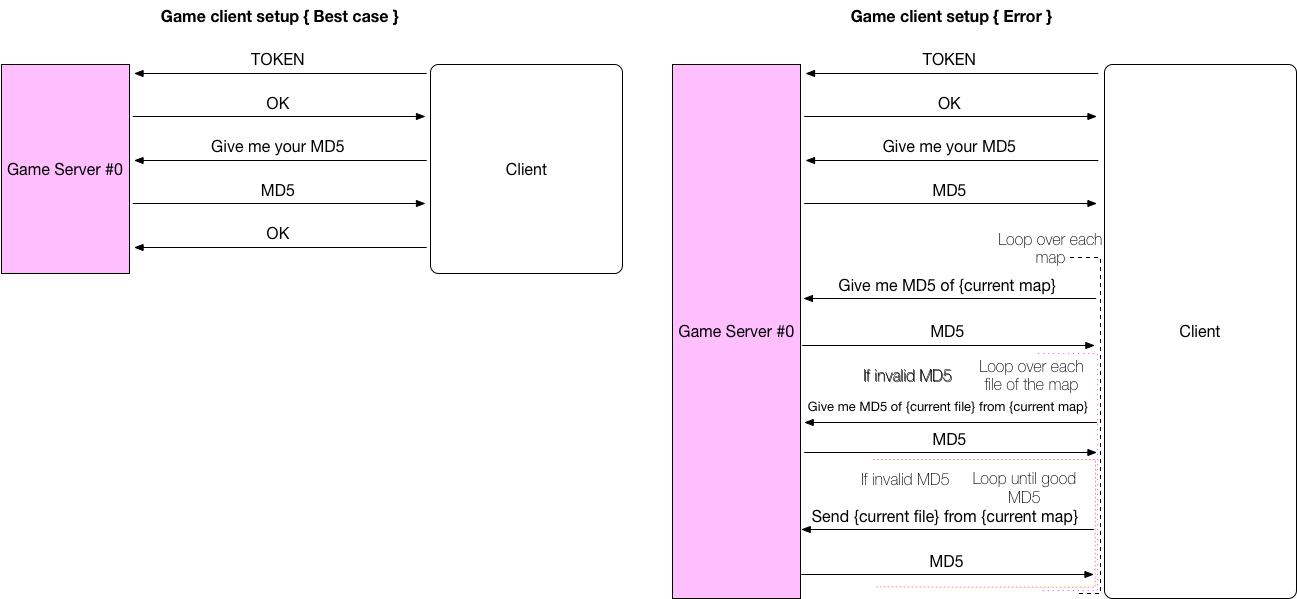
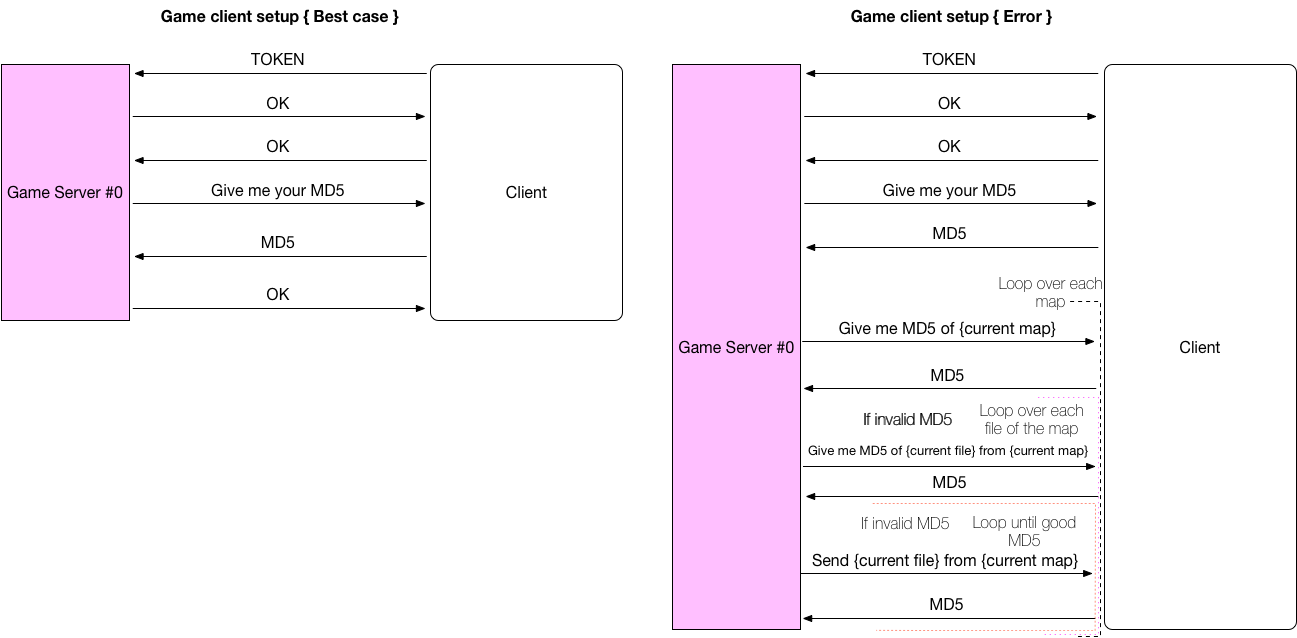
Updated schemas + now gettings all needed MD5

diff --git a/projects/server/game_server/src/Config.cpp b/projects/server/game_server/src/Config.cpp
@@ -13,46 +13,46 @@ Config &Config::getInstance()
   return (instance);
 }
 
-void Config::checkMD5(std::string const &filePath, std::map<std::string, std::string> &md5)
+void Config::checkMD5(std::string const &filePath,
+                      std::map<std::string, std::string> &md5)
 {
-  /*crypto::Hash<crypto::AHash::MD5> crypt;
-  bool = crypt.compute(reinterpret_cast<std::uint8_t const *>(c_str), lenBuff);
-  std::string md5String = crypt.getHash();*/
   crypto::Hash<crypto::AHash::MD5> crypt;
-  std::string basePath = filePath;
-  DIR *dir;
-  struct dirent *ent;
+  std::string                      basePath = filePath;
+  DIR *                            dir;
+  struct dirent *                  ent;
 
   dir = opendir(filePath.c_str());
   if (!dir)
-  {
-    //TODO do correct one
-    throw std::exception();
-  }
-  while ((ent = readdir(dir)))
-  {
-    std::ifstream fileReader;
-    std::stringstream buffer;
-    std::string finalBuff;
-    std::string md5Hash;
-
-    if (ent->d_name[0] == '.')
-      continue;
-    std::string fileName = filePath + ent->d_name;
-    fileReader.open(fileName.c_str());
-    if (!fileReader.good())
     {
-      std::cout << "!" << fileName << "!" << std::endl;
+      // TODO do correct one
       throw std::exception();
     }
-    buffer << fileReader.rdbuf();
-    finalBuff = buffer.str();
-    crypt.compute(reinterpret_cast<std::uint8_t const *>(finalBuff.c_str()), finalBuff.length());
-    md5Hash = crypt.getHash();
-    nope::log::Log(Debug) << "File: " << ent->d_name << ", MD5: " << md5Hash;
-    fileReader.close();
-    md5[ent->d_name] = md5Hash;
-  }
+
+  // Loop over each file
+  while ((ent = readdir(dir)))
+    {
+      std::ifstream     fileReader;
+      std::stringstream buffer;
+      std::string       finalBuff;
+      std::string       md5Hash;
+
+      if (ent->d_name[0] == '.')
+	continue;
+      std::string fileName = filePath + ent->d_name;
+      fileReader.open(fileName.c_str());
+      if (!fileReader.good())
+	{
+	  throw std::exception();
+	}
+      buffer << fileReader.rdbuf();
+      finalBuff = buffer.str();
+      crypt.compute(reinterpret_cast<std::uint8_t const *>(finalBuff.c_str()),
+                    finalBuff.length());
+      md5Hash = crypt.getHash();
+      nope::log::Log(Debug) << "File: " << ent->d_name << ", MD5: " << md5Hash;
+      fileReader.close();
+      md5[ent->d_name] = md5Hash;
+    }
   closedir(dir);
 }
 
@@ -62,6 +62,7 @@ void Config::loadConfig(std::string const &file)
   m_config.loadFrom(file);
 
   // Load network configuration
+  nope::log::Log(Info) << "Loading network configuration";
   m_connectManagerIp = m_config["Network"]["connectManagerIp"];
   m_connectManagerPort = static_cast<std::uint16_t>(
       std::stoi(m_config["Network"]["connectManagerPort"]));
@@ -70,23 +71,45 @@ void Config::loadConfig(std::string const &file)
   m_gameServerMaxClients = static_cast<std::uint16_t>(
       std::stoi(m_config["Network"]["maxNumberClients"]));
 
-  // TODO change condition !
-  for (std::vector<ini::Section>::const_iterator it = m_config.cbegin(); it != m_config.cend(); ++it)
+  // Load game server configuration
+  nope::log::Log(Info) << "Loading game configuration";
+  for (std::vector<ini::Section>::const_iterator it = m_config.cbegin();
+       it != m_config.cend(); ++it)
     {
       if (it->name().compare(0, mapCatDefault.length(), mapCatDefault) == 0)
-      {
-        MapConfig   tmp;
-        tmp.name = (*it)["name"];
-        std::cout << "NAME: " << tmp.name << std::endl;
-        tmp.directory = (*it)["directory"];
-        checkMD5(tmp.directory, tmp.md5);
-        tmp.gameMode = (*it)["gameMode"];
-        tmp.nbLaps = std::stoi((*it)["laps"]);
-        nope::log::Log(Debug) << nope::serialization::to_json(tmp);
-        m_mapConfig.push_back(std::move(tmp));
-      }
+	{
+	  MapConfig tmp;
+	  tmp.name = (*it)["name"];
+	  tmp.directory = (*it)["directory"];
+	  checkMD5(tmp.directory, tmp.md5);
+	  std::string                      payload;
+	  crypto::Hash<crypto::AHash::MD5> crypt;
+	  for (std::pair<std::string const, std::string> cur : tmp.md5)
+	    {
+	      payload += cur.second;
+	    }
+	  crypt.compute(
+	      reinterpret_cast<std::uint8_t const *>(payload.c_str()),
+	      payload.length());
+	  tmp.md5Str = crypt.getHash();
+	  tmp.gameMode = (*it)["gameMode"];
+	  tmp.nbLaps = std::stoi((*it)["laps"]);
+	  nope::log::Log(Debug) << nope::serialization::to_json(tmp);
+	  m_mapConfig.push_back(std::move(tmp));
+	}
     }
-  // Load game server configuration
+
+  // Get general MD5
+  crypto::Hash<crypto::AHash::MD5> crypt;
+  std::string                      payload;
+  for (MapConfig const &map : m_mapConfig)
+    {
+      payload += map.md5Str;
+    }
+  crypt.compute(reinterpret_cast<std::uint8_t const *>(payload.c_str()),
+                payload.length());
+  m_mapMD5 = crypt.getHash();
+  nope::log::Log(Debug) << "Generated global MD5 : " << m_mapMD5;
 }
 
 // Getters
@@ -108,4 +131,14 @@ std::uint16_t Config::getGameServerPort() const
 std::int32_t Config::getGameServerMaxClients() const
 {
   return (m_gameServerMaxClients);
+}
+
+std::vector<MapConfig> const &Config::getMapConfig() const
+{
+  return (m_mapConfig);
+}
+
+std::string const &Config::getMapMD5() const
+{
+  return (m_mapMD5);
 }

diff --git a/projects/server/game_server/src/GameClient.cpp b/projects/server/game_server/src/GameClient.cpp
@@ -175,6 +175,25 @@ network::IClient::ClientAction GameClient::treatIncomingData()
     case State::AUTHENTICATING:
       break;
     case State::AUTHENTICATED:
+      nope::log::Log(Debug) << "Reading in state AUTHENTICATED [GameClient]";
+      ret = read(m_packet);
+      if (ret == network::IClient::ClientAction::SUCCESS)
+	{
+	  m_packet >> rep;
+	  // The only event allowed is a VALIDATION event
+	  if (rep.pck.eventType == GameClientToGSEvent::VALIDATION_EVENT)
+	    {
+	      nope::log::Log(Debug)
+	          << "Got Validation: " << rep.pck.eventData.valid
+	          << " [GameClient]";
+	      if (rep.pck.eventData.valid == 1)
+		{
+		  nope::log::Log(Debug)
+		      << "Switching to CHECKING_MAPS state [GameClient]";
+		  m_state = State::CHECKING_MAPS;
+		}
+	    }
+	}
       break;
     case State::CHECKING_MAPS:
       break;
@@ -211,6 +230,10 @@ network::IClient::ClientAction GameClient::treatOutgoingData()
     case State::AUTHENTICATED:
       break;
     case State::CHECKING_MAPS:
+      if (checkMaps())
+	{
+	  ret = network::IClient::ClientAction::SUCCESS;
+	}
       break;
     case State::WAITING:
       break;
@@ -229,6 +252,27 @@ bool GameClient::operator==(GameClient const &other) const
   if (this != &other)
     {
       return (m_sock == other.m_sock);
+    }
+  return (true);
+}
+
+bool GameClient::checkMaps()
+{
+  // Check global MD5
+  nope::log::Log(Info) << "Checking integrity of client's maps";
+
+  nope::log::Log(Debug) << "Global MD5: " << Config::getInstance().getMapMD5();
+
+  std::vector<MapConfig> const &maps = Config::getInstance().getMapConfig();
+
+  // Check MD5 for each map
+  for (MapConfig const &map : maps)
+    {
+      nope::log::Log(Debug) << map.name << ": " << map.md5Str;
+      for (std::pair<std::string const, std::string> file : map.md5)
+	{
+	  nope::log::Log(Debug) << file.first << ": " << file.second;
+	}
     }
   return (true);
 }

diff --git a/projects/server/game_server/include/Config.hpp b/projects/server/game_server/include/Config.hpp
@@ -18,15 +18,18 @@ public:
   void operator=(Config const &) = delete;
 
   // Network
-  std::string const &getConnectManagerIp() const;
-  std::uint16_t      getConnectManagerPort() const;
-  std::uint16_t      getGameServerPort() const;
-  std::int32_t       getGameServerMaxClients() const;
+  std::string const &           getConnectManagerIp() const;
+  std::uint16_t                 getConnectManagerPort() const;
+  std::uint16_t                 getGameServerPort() const;
+  std::int32_t                  getGameServerMaxClients() const;
+  std::vector<MapConfig> const &getMapConfig() const;
+  std::string const &           getMapMD5() const;
 
 private:
   Config();
   void loadConfig(std::string const &file);
-  void checkMD5(std::string const &filePath, std::map<std::string, std::string> &md5);
+  void checkMD5(std::string const &filePath,
+                std::map<std::string, std::string> &md5);
 
   // Ini configuration
   ini::Ini m_config;
@@ -37,6 +40,7 @@ private:
   std::uint16_t          m_gameServerPort;
   std::int32_t           m_gameServerMaxClients;
   std::vector<MapConfig> m_mapConfig;
+  std::string            m_mapMD5;
 
   // Game
 };

diff --git a/projects/server/game_server/include/ConfigTools.hpp b/projects/server/game_server/include/ConfigTools.hpp
@@ -14,11 +14,11 @@
 // clang-format off
 struct MapConfig
 {
-  //TODO check serialization std::map
   using map_t = std::map<std::string, std::string>;
   NOPE_SERIAL_MEMBER(
   std::string, name,
   std::string, directory,
+  std::string, md5Str,
   std::string, gameMode,
   int32_t,     nbLaps)
   map_t       md5;

diff --git a/projects/server/game_server/include/GameClient.hpp b/projects/server/game_server/include/GameClient.hpp
@@ -56,6 +56,8 @@ private:
   Packet<GameClientToGSPacket> m_packet;
   std::vector<Token> &         m_tokenList;
   std::int32_t                 m_id;
+
+  bool checkMaps();
 };
 
 // Disable clang warning for implicit padding
